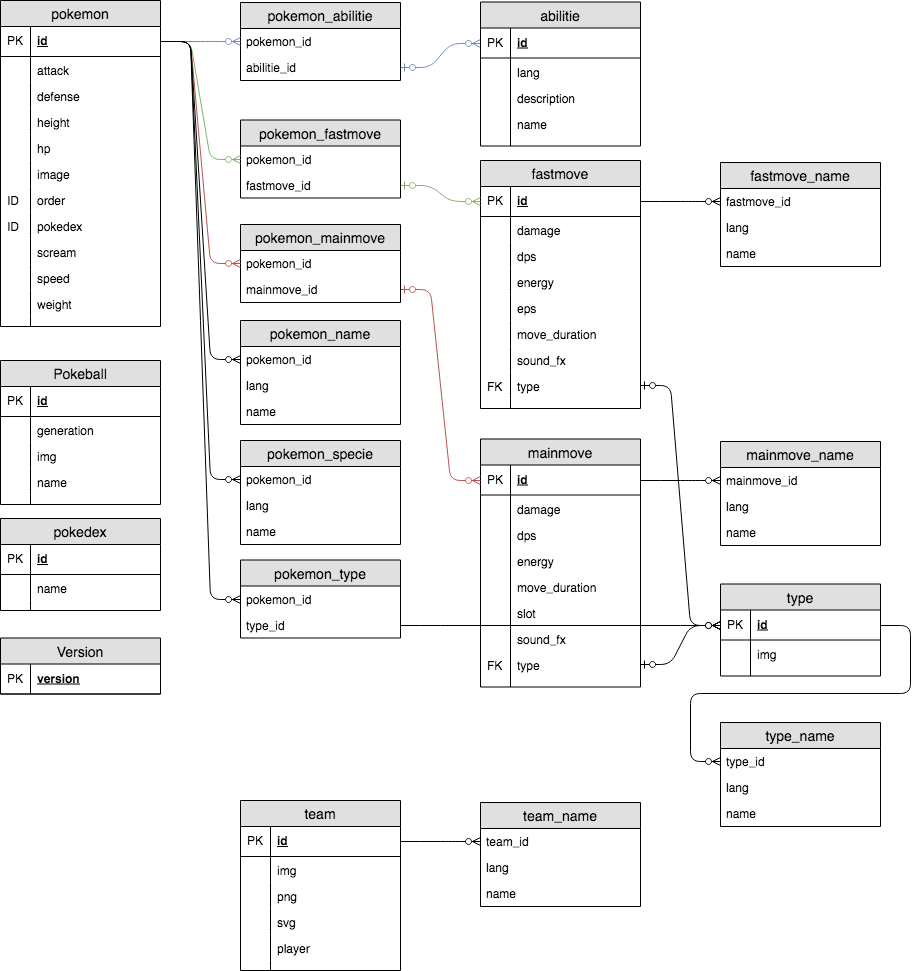
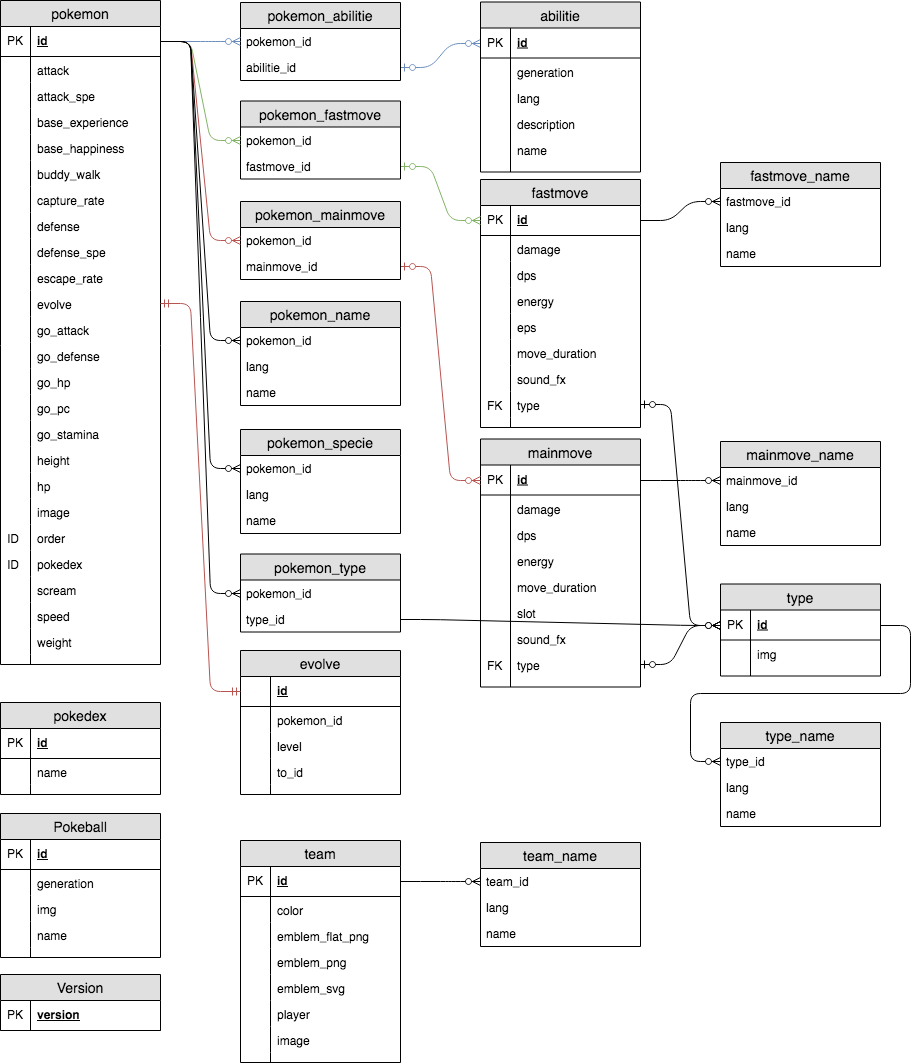
update readme and database diagram

diff --git a/api/Model/Evolve.php b/api/Model/Evolve.php
@@ -7,9 +7,6 @@ use PDO;
 
 class Evolve
 {
-    // TODO pokemon id 265 / evolve id 110
-    //  should return two evolve chain
-    //  see https://pokemondb.net/pokedex/wurmple#dex-evolution
     private $pdo;
     private $sql;
 

diff --git a/api/Model/Pokemon.php b/api/Model/Pokemon.php
@@ -5,8 +5,6 @@ use PDO;
 
 class Pokemon
 {
-    // TODO
-    //  update database schema (pokemon, team, abilities and evolve)
 
     private $pdo;
     private $sql;

diff --git a/README.md b/README.md
@@ -154,5 +154,13 @@ version:
 
 ## TODO
 
-missing attacks sound file
+missing attacks sound file:
+
 exemple with fire_fang.wav who not exist but required
+
+fix evolve chain :
+
+pokemon id 265 / evolve id 110
+should return two evolve chain
+
+see https://pokemondb.net/pokedex/wurmple#dex-evolution
